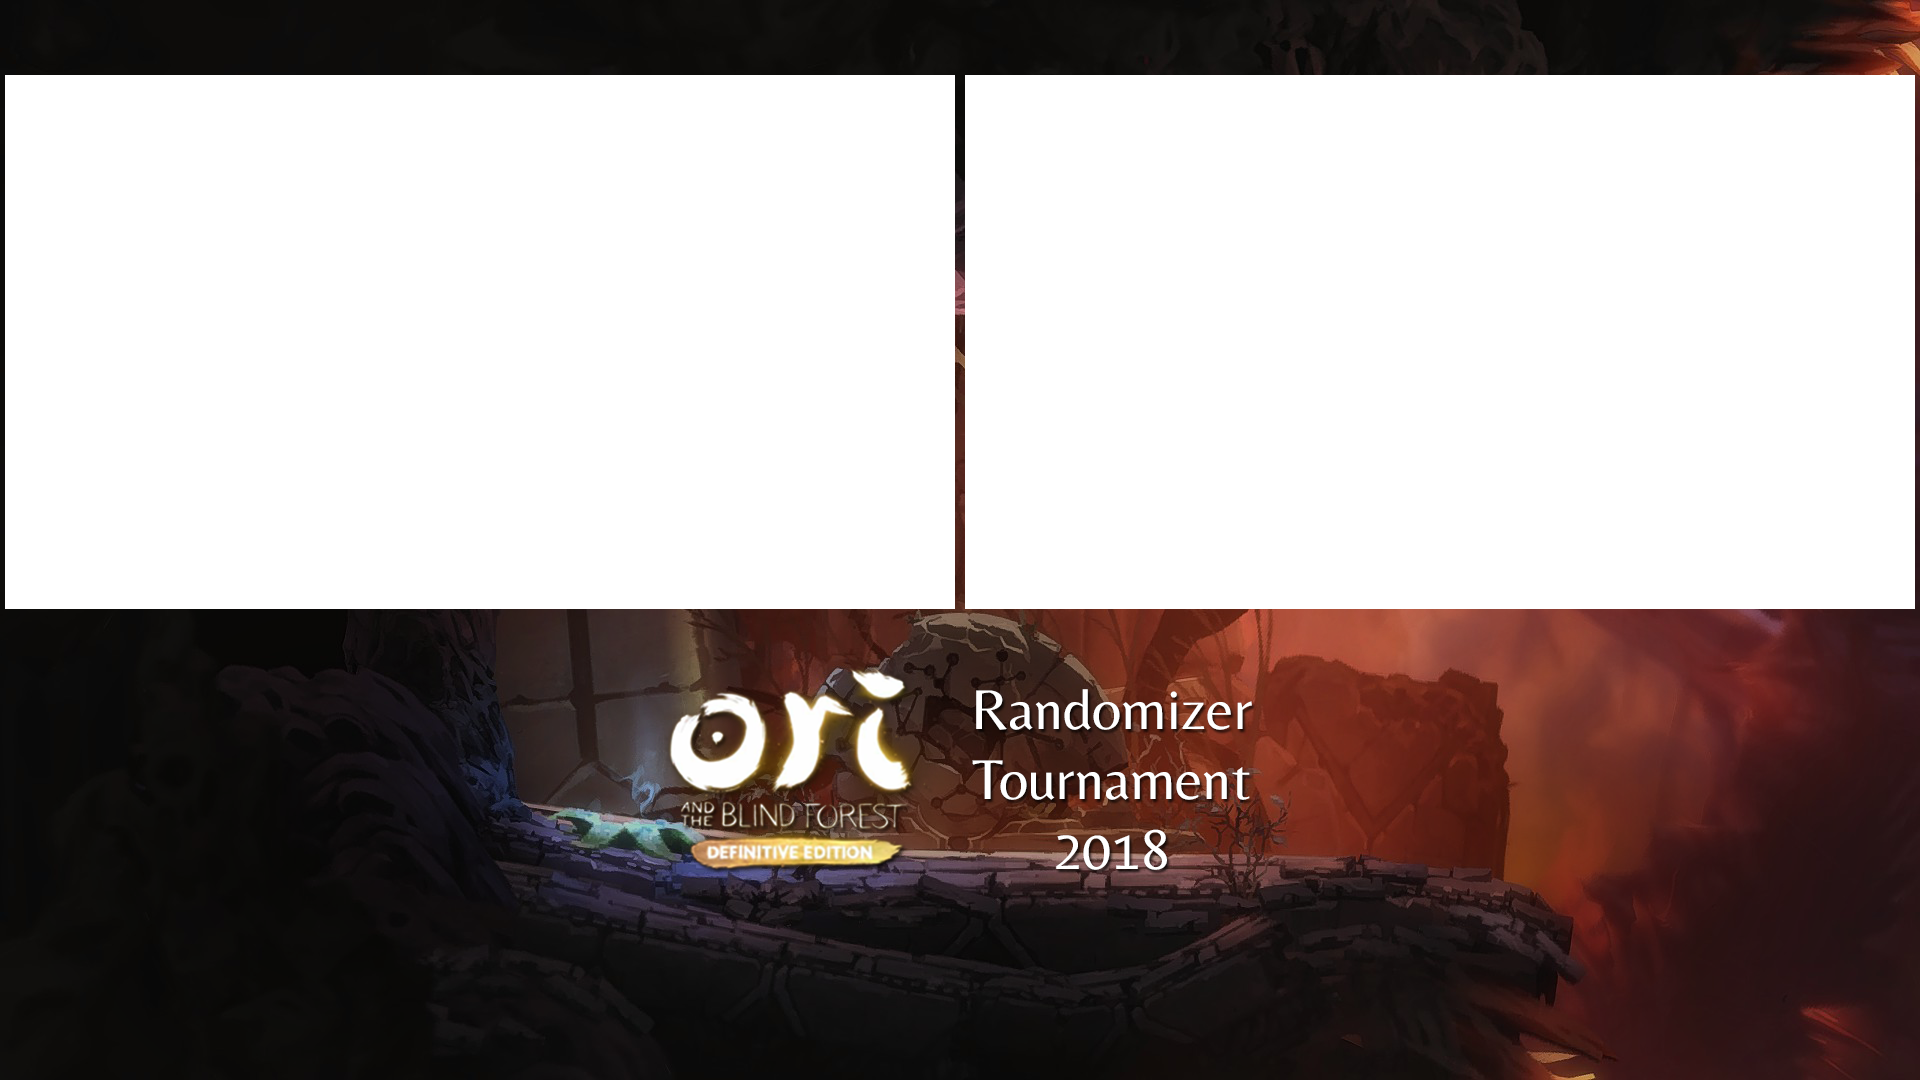
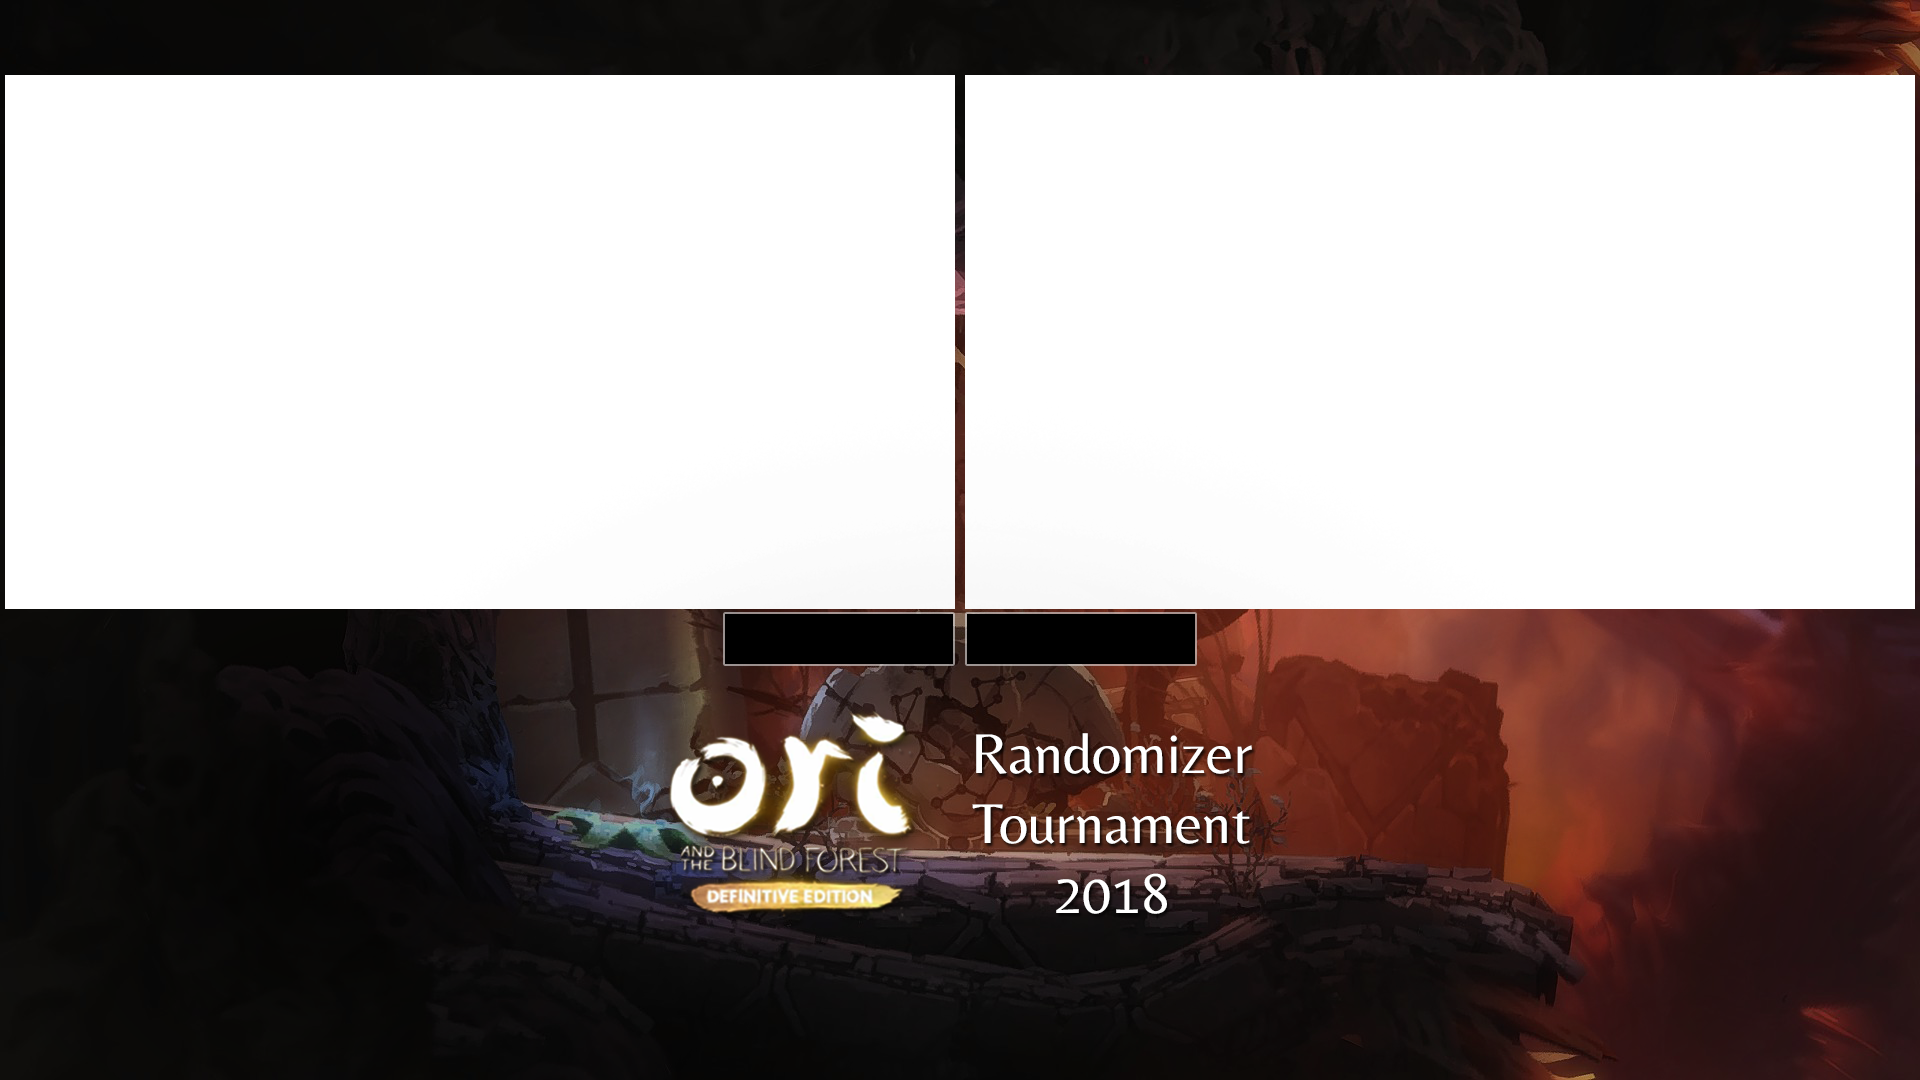
Add Working Swiss and new backgrounds

Changed region(s): [[0.2812, 0.55, 0.6875, 0.8556], [0.9688, 0.0, 1.0, 0.0917]]

diff --git a/src/app/controls/controls.html b/src/app/controls/controls.html
@@ -9,7 +9,7 @@
 				<label for="tournament">Tournament</label><br>
 			</div>
 			<div class="col-2 r2 c2">
-				<input type="text" id="trackerId" [(ngModel)]="seed" [disabled]="isLinked" placeholder="Same as Skill Tracker"><br>
+				<input type="text" id="trackerId" [(ngModel)]="seed" placeholder="Same as Skill Tracker"><br>
 				<input type="text" id="matchType" [(ngModel)]="matchType"  placeholder="Group/Bracket Stage - Group Name">
 				<input type="text" id="commentators" [(ngModel)]="commentators"  placeholder="ENTER COMMENTATORS">
 				<select class="twitch" [(ngModel)]="bestOf">
@@ -151,28 +151,45 @@
 </div>
 <div *ngIf="vm.tournament == 3" style="position: absolute; top: 220px; background-color: #181819; width: 1920px; height: 700px;">
 	<span style="width: 300px; position: absolute; top: 0; left: 75px;">
-			<div>
-				<span><b>Singles</b></span>
-			</div>
-			<div *ngFor="let p of vm.players">
-				<span *ngIf="p.singles">
-					<input type="checkbox" value="p.name" (change)="addRemovePlayer($event, p.id, p.name)" />
-					<span>{{ p.name }}</span>
-				</span>
-			</div>
+		<div>
+			<span><b>Singles</b></span>
+		</div>
+		<div *ngFor="let p of vm.players">
+			<span *ngIf="p.singles && p.id < 30">
+				<input style="text-shadow: none;" type="button" value="+" (click)="addRemovePlayer($event, p.id, p.name)" />
+				<span>{{ p.name }}</span>
+			</span>
+		</div>
 	</span>
-	<span style="position: absolute; top: 0; left: 400px; width: 200px; background-color: #181819 ">	
-			<div>
-				<span><b>Doubles</b></span>
-			</div>		
-			<div *ngFor="let p of vm.teams">
-				<span>
-					<input type="checkbox" value="p.name" (change)="addRemoveTeam($event, p.id, p.name)" />
-					<span>{{ p.name }}</span>
-				</span>
-			</div>
-			<div style="margin-top: 75px">
-				<span>Click the names as they appear on the reveal stream! No need to press update stream button</span>
-			</div>
+	<span style="width: 300px; position: absolute; top: 0; left: 400px;">
+		<div *ngFor="let p of vm.players">
+			<span *ngIf="p.singles && p.id >= 30">
+				<input style="text-shadow: none;" type="button" value="+" (click)="addRemovePlayer($event, p.id, p.name)" />
+				<span>{{ p.name }}</span>
+			</span>
+		</div>
+	</span>
+	<span style="position: absolute; top: 0; left: 800px; width: 200px; background-color: #181819 ">	
+		<div>
+			<span><b>Doubles</b></span>
+		</div>		
+		<div *ngFor="let p of vm.teams">
+			<span>
+				<input style="text-shadow: none;" type="button" value="+" (click)="addRemoveTeam($event, p.id, p.name)" />
+				<span>{{ p.name }}</span>
+			</span>
+		</div>
+		<div style="margin-top: 75px">
+			<span>Click the names as they appear on the reveal stream! No need to press update stream button</span>
+		</div>
+	</span>
+	<span style="position: absolute; top: 0; left: 1100px; width: 400px; background-color: #181819 ">
+		<input type="button" class="btn btn-warning r14 c7 col-1" value="RESET" (click)="resetSwiss()" />
+	</span>
+	<span style="position: absolute; top: 500px; left: 400px; width: 400px; background-color: #181819 ">
+		<input type="button" class="btn btn-warning r14 c7 col-1" value="UNDO SINGLES" (click)="undoSwissSingles()" />
+	</span>
+	<span style="position: absolute; top: 200px; left: 1100px; width: 400px; background-color: #181819 ">
+		<input type="button" class="btn btn-warning r14 c7 col-1" value="UNDO DOUBLES" (click)="undoSwissDoubles()" />
 	</span>
 </div>

diff --git a/src/app/swiss/swiss.cmp.ts b/src/app/swiss/swiss.cmp.ts
@@ -55,6 +55,63 @@ export class SwissCMP {
 				this.doublesMatchups.push({ p1: null, p2: null });
 			}
 		}.bind(this));
+
+		this.socket.on('resetSwiss', function(data: Information, id: number){
+			if(data.seed !== this.seed)
+				return;
+
+			this.singlesMatchups = new Array<any>();
+			this.doublesMatchups = new Array<any>();
+			this.singlesMatchups.push({ p1: null, p2: null });
+			this.doublesMatchups.push({ p1: null, p2: null });
+
+		}.bind(this));
+
+		this.socket.on('undoSwissSingles', function(data: Information, id: number){
+			if(data.seed !== this.seed)
+				return;
+				
+			if(this.singlesMatchups[this.singlesMatchups.length - 1].p1 != null) {
+				this.singlesMatchups.pop();
+				this.singlesMatchups.push({ p1: null, p2: null });
+			} else {
+				if(this.singlesMatchups[this.singlesMatchups.length - 1].p2 != null) {
+					this.singlesMatchups.push({ p1: null, p2: null });
+				} else {
+					this.singlesMatchups.pop();
+					this.singlesMatchups.pop();
+					this.singlesMatchups.push({ p1: null, p2: null });
+				}
+			}
+
+			if(this.singlesMatchups.length < 1) {
+				this.singlesMatchups = new Array<any>();
+			}
+
+		}.bind(this));
+
+		this.socket.on('undoSwissDoubles', function(data: Information, id: number){
+			if(data.seed !== this.seed)
+				return;
+				
+			if(this.doublesMatchups[this.doublesMatchups.length - 1].p1 != null) {
+				this.doublesMatchups.pop();
+				this.doublesMatchups.push({ p1: null, p2: null });
+			} else {
+				if(this.doublesMatchups[this.doublesMatchups.length - 1].p2 != null) {
+					this.doublesMatchups.push({ p1: null, p2: null });
+				} else {
+					this.doublesMatchups.pop();
+					this.doublesMatchups.pop();
+					this.doublesMatchups.push({ p1: null, p2: null });
+				}
+			}
+
+			if(this.doublesMatchups.length < 1) {
+				this.doublesMatchups = new Array<any>();
+			}
+
+		}.bind(this));
 	}
 	
 	getPlayerById(id: number) {

diff --git a/src/app/swiss/swiss.html b/src/app/swiss/swiss.html
@@ -27,30 +27,16 @@
     </div>
 
     <div class="matchups"> 
-        <div><b>Singles</b></div>
-        <div *ngFor="let v of singlesMatchups">
-            <span *ngIf="v.p1">
-                {{ v.p1 }} vs {{ v.p2 }}
-            </span>
+        <div class="singles">
+            <b>Singles</b>
+            <div *ngFor="let v of singlesMatchups">
+                <span *ngIf="v.p1">
+                    {{ v.p1 }} vs {{ v.p2 }}
+                </span>
+            </div>
         </div>
-        <!-- <div>TheRooseIsLoose vs TheFlyingMarlin</div>
-        <div>Vulajin vs Brynhold</div>
-        <div>Eiko vs Raziel</div>
-        <div>Skulblaka vs Sigmasin</div>
-        <div>Cleanfel vs JHobz</div>
-        <div>roryrai vs CovertMuffin</div>
-        <div>oshiimine vs shedd</div>
-        <div>Grimelios vs Terra</div>
-        <div>Synyadriel vs TASSnoop</div>
-        <div>nfnite vs MeatShield</div>
-        <div>Osey vs trojandude12</div>
-        <div>Cutieroo vs Hydra</div>
-        <div>Willson vs sloaters</div>
-        <div>Meldon vs Dedew</div>
-        <div>ogndrahcir vs rainbowpoogle</div>
-        <div>UncleRonny vs Lusther</div> -->
 
-        <div style="position: absolute; right: 5px; top: 700px; width: 360px;">
+        <div class="doubles">
             <b>Doubles</b>
             <div *ngFor="let v of doublesMatchups">
                 <span *ngIf="v.p1">

diff --git a/src/app/controls/controls.cmp.ts b/src/app/controls/controls.cmp.ts
@@ -95,25 +95,25 @@ export class ControlsCMP {
 	}
 
 	addRemovePlayer(event: any, id: number, name: string){
-		if(!confirm(name)){
-			event.target.checked = false;
-			return;
-		}
-
-		event.target.disabled = true;
-
 		this.socket.emit('swissPlayerSelected', this.vm, id, event.target.checked);
 	}
 	
 	addRemoveTeam(event: any, id: number, name: string){
-		if(!confirm(name)){
-			event.target.checked = false;
-			return;
-		}
-
-		event.target.disabled = true;
-
 		this.socket.emit('swissTeamSelected', this.vm, id, event.target.checked);
+	}
+
+	resetSwiss() {
+		this.socket.emit('resetSwiss', this.vm);
+		$('input[type=checkbox]').prop('checked',false);
+		$('input[type=checkbox]').prop('disabled',false);
+	}
+
+	undoSwissSingles() {
+		this.socket.emit('undoSwissSingles', this.vm);
+	}
+
+	undoSwissDoubles() {
+		this.socket.emit('undoSwissDoubles', this.vm);
 	}
 
 	setP1Name(event: any){

diff --git a/src/app/swiss/swiss.css b/src/app/swiss/swiss.css
@@ -5,7 +5,6 @@
 
 .container {
     font-family: "Gara";
-    font-size: 24px;
     color: white;
     width: 1920px;
 	height: 1080px;
@@ -18,19 +17,20 @@ div {
 }
 
 .matchups {
-    position: absolute;
+    position: fixed;
     right: 5px;
     top: 5px;
-    width: 384px;
+    width: 20%;
+    height: 100%;
 }
 
 .matchups > div {
-    font-size: 24px;
+    font-size: 1vw;
     text-align: center;
 }
 
 .matchups > div > div {
-    font-size: 24px;
+    font-size: 1vw;
     text-align: center;
 }
 
@@ -70,7 +70,7 @@ div {
     position: absolute;
     bottom: 40px;
     left: 275px;
-    font-size: 48px;
+    font-size: 32px;
 }
 
 .sub-title > img {
@@ -81,4 +81,14 @@ div {
     background: black;
     width: 80%;
     height: 80%;
+}
+
+.doubles {
+    width: 100%; 
+    height: 35%;
+}
+
+.singles {
+    width: 100%; 
+    height: 65%;
 }

diff --git a/src/app/splash/splash.html b/src/app/splash/splash.html
@@ -1,6 +1,9 @@
 <div class="container">
-    <!-- <div class="matchType">
+    <div class="matchType" *ngIf="vm.tournament == 1 || vm.tournament == 2">
         {{ vm.matchType }}
+    </div>
+    <div class="matchType" *ngIf="vm.tournament == 3">
+        Swiss Reveal
     </div>
     <div class="matchup" *ngIf="vm.tournament == 1">
         <div>
@@ -21,7 +24,13 @@
             <span *ngIf="opponent2Seed">({{ opponent2Seed }})</span> {{ opponent2 }}
             <span *ngIf="players2"><br />{{ players2 }}</span>
         </div>
-    </div> -->
+    </div>
+
+    <div class="matchup" *ngIf="vm.tournament == 3">
+        <div>
+            Round 1 Pairings
+        </div>
+    </div>
     <div>
         <div class="logo">
             <div>

diff --git a/src/app/stream-4way/stream-4way.css b/src/app/stream-4way/stream-4way.css
@@ -141,6 +141,7 @@
     width: 766px;
     padding: 20px 0px 0px 10px;
     color:  rgb(252, 176, 77);
+    font-size: 28px;
 }
 
 .player2 {
@@ -149,6 +150,7 @@
     padding: 20px 10px 0px 0px;
     text-align: right;
     color:  rgb(252, 176, 77);
+    font-size: 28px;
 }
 
 .matchType {
@@ -181,6 +183,7 @@
     padding: 45px 0px 0px 10px;
     vertical-align: text-bottom;
     color: rgb(149, 229, 253);
+    font-size: 28px;
 }
 
 .player4 { 
@@ -189,6 +192,7 @@
     width: 756px;
     padding: 45px 10px 0px 0px;
     color: rgb(149, 229, 253);
+    font-size: 28px;
 }
 
 .name-twitch {

diff --git a/src/app/stream/stream.css b/src/app/stream/stream.css
@@ -133,9 +133,12 @@
 
 .stream-placeholder {
     float: left;
-    width: 950px; /* (stream_width - margins)/2 = (1920 - 4*5px)/2 = 950px */
-    height: 534.375px; /* racefeed_width * 9 / 16 = 950 * 9 / 16 = 534.375px */
-    margin: 0 5px;
+    width: 946px; /* (stream_width - margins)/2 = (1920 - 4*5px)/2 = 950px */
+    height: 530.375px; /* racefeed_width * 9 / 16 = 950 * 9 / 16 = 534.375px */
+	margin: 0 5px;
+	border-color: rgba(244, 244, 244, 0.60);
+    border-style: solid;
+    border-width: 2px;
 }
 
 .stats-container {

diff --git a/server.js b/server.js
@@ -63,6 +63,18 @@ io.on('connection', function(client) {
     client.on('swissTeamSelected', function(data, teamId){
         io.emit('swissTeamSelected', data, teamId);
     });
+
+    client.on('resetSwiss', function(data){
+        io.emit('resetSwiss', data);
+    });
+
+    client.on('undoSwissSingles', function(data){
+        io.emit('undoSwissSingles', data);
+    });
+
+    client.on('undoSwissDoubles', function(data){
+        io.emit('undoSwissDoubles', data);
+    });
 });
 
 server.listen(port);

diff --git a/src/app/services/information.ts b/src/app/services/information.ts
@@ -17,7 +17,7 @@ export class Information {
     player2_stats: number = 0;
     currentAudioOnPlayer: number = 1;
     commentators: string = 'Mattermonkey, TheFlyingMarlin';
-    background: string = 'brbms';
+    background: string = 'iceless';
     groupName: string = 'Swiss - Round 3';
     matchType: string = this.groupName + ' (2-0)';
     zoomBracket: boolean = false;
